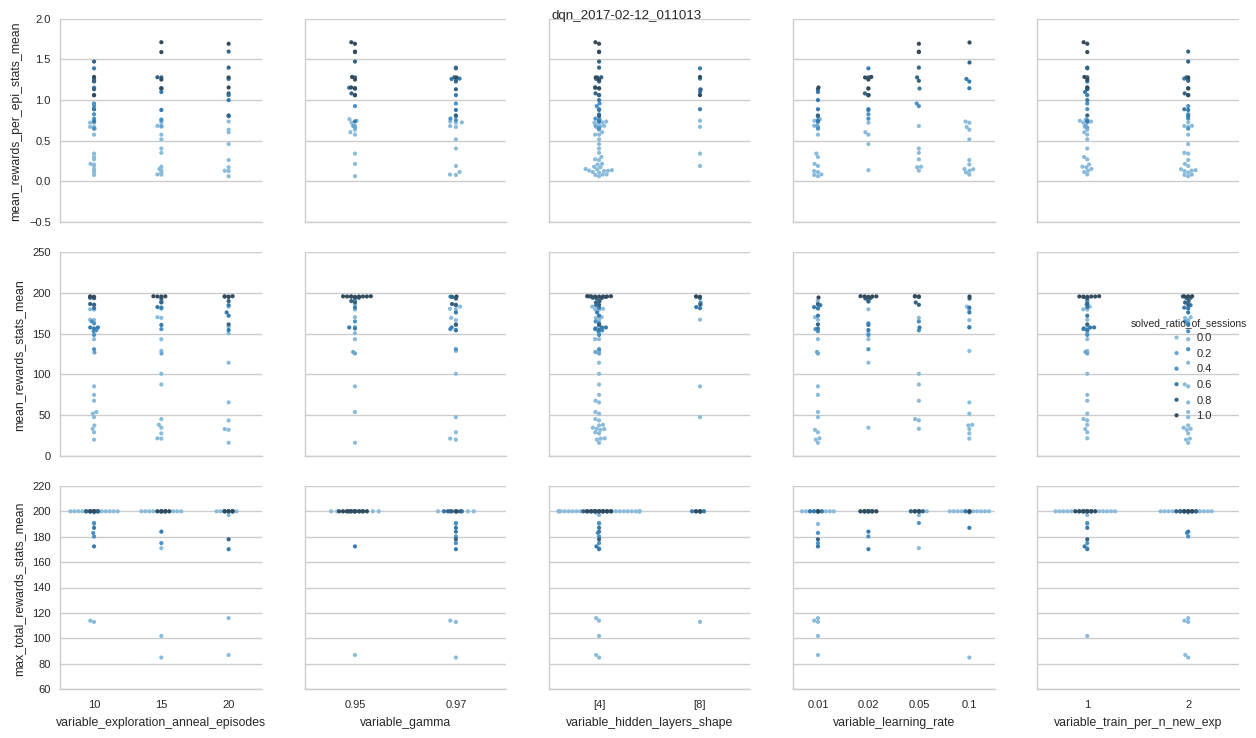
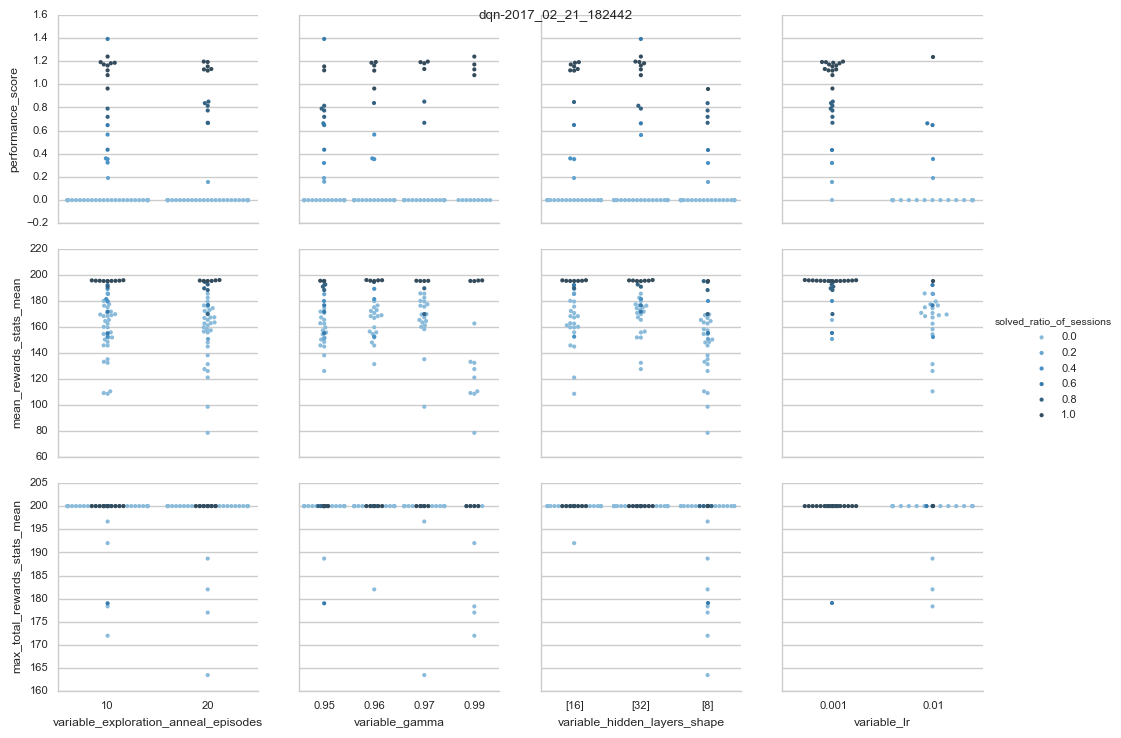
publish: add dqn pic
generated from commit 4880b08e2d25e8413f6b73bc6c73192d3306ab7d

diff --git a/index.html b/index.html
@@ -290,13 +290,109 @@
 <p><em>The dqn experiment analytics generated by the lab (zoom/download to see). This is a pairplot, where we isolate each variable, flatten the others, plot each trial as a point. The darker the color the higher ratio of the repeated sessions the trial solves.</em>
 <img alt="The dqn experiment analytics" src="./images/dqn.png" /></p>
 
-<p>On completion, from the analytics (zoom on the graph), we conclude that the experiment is a success, and the best agent that solves the problem has parameters:</p>
+<p><em>Analysis data table, top 5 trials</em>:</p>
+
+<table><thead>
+<tr>
+<th style="text-align: left">performance_score</th>
+<th style="text-align: left">mean_rewards_per_epi_stats_mean</th>
+<th style="text-align: left">mean_rewards_stats_mean</th>
+<th style="text-align: left">epi_stats_mean</th>
+<th style="text-align: left">solved_ratio_of_sessions</th>
+<th style="text-align: left">num_of_sessions</th>
+<th style="text-align: left">max_total_rewards_stats_mean</th>
+<th style="text-align: left">t_stats_mean</th>
+<th style="text-align: left">trial_id</th>
+<th style="text-align: left">variable_exploration_anneal_episodes</th>
+<th style="text-align: left">variable_gamma</th>
+<th style="text-align: left">variable_hidden_layers_shape</th>
+<th style="text-align: left">variable_lr</th>
+</tr>
+</thead><tbody>
+<tr>
+<td style="text-align: left">1.39203</td>
+<td style="text-align: left">2.32005</td>
+<td style="text-align: left">171.7815</td>
+<td style="text-align: left">120.0</td>
+<td style="text-align: left">0.6</td>
+<td style="text-align: left">5</td>
+<td style="text-align: left">200.0</td>
+<td style="text-align: left">189.8</td>
+<td style="text-align: left">dqn-2017_02_21_182442_t46</td>
+<td style="text-align: left">10</td>
+<td style="text-align: left">0.99</td>
+<td style="text-align: left">[32]</td>
+<td style="text-align: left">0.02</td>
+</tr>
+<tr>
+<td style="text-align: left">1.239977</td>
+<td style="text-align: left">1.239977</td>
+<td style="text-align: left">195.272</td>
+<td style="text-align: left">167.2</td>
+<td style="text-align: left">1.0</td>
+<td style="text-align: left">5</td>
+<td style="text-align: left">200.0</td>
+<td style="text-align: left">199.0</td>
+<td style="text-align: left">dqn-2017_02_21_182442_t45</td>
+<td style="text-align: left">10</td>
+<td style="text-align: left">0.99</td>
+<td style="text-align: left">[32]</td>
+<td style="text-align: left">0.01</td>
+</tr>
+<tr>
+<td style="text-align: left">1.196581</td>
+<td style="text-align: left">1.196581</td>
+<td style="text-align: left">195.372</td>
+<td style="text-align: left">168.0</td>
+<td style="text-align: left">1.0</td>
+<td style="text-align: left">5</td>
+<td style="text-align: left">200.0</td>
+<td style="text-align: left">199.0</td>
+<td style="text-align: left">dqn-2017_02_21_182442_t80</td>
+<td style="text-align: left">20</td>
+<td style="text-align: left">0.97</td>
+<td style="text-align: left">[32]</td>
+<td style="text-align: left">0.001</td>
+</tr>
+<tr>
+<td style="text-align: left">1.192967</td>
+<td style="text-align: left">1.192967</td>
+<td style="text-align: left">196.102</td>
+<td style="text-align: left">165.4</td>
+<td style="text-align: left">1.0</td>
+<td style="text-align: left">5</td>
+<td style="text-align: left">200.0</td>
+<td style="text-align: left">199.0</td>
+<td style="text-align: left">dqn-2017_02_21_182442_t68</td>
+<td style="text-align: left">20</td>
+<td style="text-align: left">0.96</td>
+<td style="text-align: left">[32]</td>
+<td style="text-align: left">0.001</td>
+</tr>
+<tr>
+<td style="text-align: left">1.191591</td>
+<td style="text-align: left">1.191591</td>
+<td style="text-align: left">195.49</td>
+<td style="text-align: left">166.2</td>
+<td style="text-align: left">1.0</td>
+<td style="text-align: left">5</td>
+<td style="text-align: left">200.0</td>
+<td style="text-align: left">195.0</td>
+<td style="text-align: left">dqn-2017_02_21_182442_t28</td>
+<td style="text-align: left">10</td>
+<td style="text-align: left">0.97</td>
+<td style="text-align: left">[16]</td>
+<td style="text-align: left">0.001</td>
+</tr>
+</tbody></table>
+
+<p>On completion, from the analytics (zoom on the graph), we conclude that the experiment is a success, and the best agent that solves the problem has the parameters:</p>
 
 <ul>
-<li><em>lr</em>: (pending below)</li>
-<li><em>gamma</em>: </li>
-<li><em>hidden_layers_shape</em>: </li>
-<li><em>exploration_anneal_episodes</em>: </li>
+<li><em>lr</em>: 0.1</li>
+<li><em>gamma</em>: 0.99</li>
+<li><em>hidden_layers_shape</em>: [32]</li>
+<li><em>exploration_anneal_episodes</em>: 10</li>
 </ul>
 
 <h3 id="run-your-own-lab">Run Your Own Lab</h3>
@@ -361,12 +457,99 @@ Setup the config key <code>data_sync_destination</code> in <code>config/{default
 Setup the config keys <code>NOTI_SLACK_DEST</code>, <code>NOTI_SLACK_TOK</code> in <code>config/{default.json, production.json}</code>.
 </aside>
 
-<p>Notifications from the lab running on our remote server beast:
+<p><em>Notifications from the lab running on our remote server beast:</em>
 <img alt="Notifications from the lab running on our remote server beast" src="./images/noti.png" /></p>
 
           <h1 id="usage"><a name="usage"></a>Usage</h1>
 
-<p>We use <a href="http://gruntjs.com/">Grunt</a> to run the lab - set up experiments, pause/resume lab, run analyses, sync data, notify on progress. The related dependencies are installed with <code class="prettyprint">bin/setup</code> already.</p>
+<p>We use <a href="http://gruntjs.com/">Grunt</a> to run the lab - set up experiments, pause/resume lab, run analyses, sync data, notify on completion. Internally <code class="prettyprint">grunt</code> runs the <code class="prettyprint">python</code> command which is harder to use, but we will include the details below for reference.</p>
+
+<p>The general gist for running a production lab is:</p>
+
+<ol>
+<li>Specify experiments in <code class="prettyprint">rl/asset/experiment_specs.json</code>, e.g. <code class="prettyprint">&quot;dqn&quot;, &quot;lunar_dqn&quot;</code></li>
+<li>Specify the names of the experiments to run in <code class="prettyprint">config/production.json</code></li>
+<li>Run the lab, e.g. <code class="prettyprint">grunt -prod -resume</code></li>
+</ol>
+
+<h2 id="commands">Commands</h2>
+<pre class="highlight shell"><code><span class="c"># when developing</span>
+grunt
+<span class="c"># locally run lab experiments in production.json</span>
+grunt -prod
+<span class="c"># run lab on remote server</span>
+grunt -prod -remote
+<span class="c"># resume lab (previously incomplete experiments)</span>
+grunt -prod -remote -resume
+<span class="c"># plot analysis graphs only</span>
+grunt plot -prod
+</code></pre>
+<p><strong>development</strong> mode:</p>
+
+<ul>
+<li>All grunt commands defaults to this mode</li>
+<li>specify your dev experiment in <code class="prettyprint">config/default.json</code></li>
+<li>use only when developing your new algo</li>
+<li>the file-sync is in mock mode (emulated log without real file copying)</li>
+<li>no auto-notification</li>
+</ul>
+
+<p><strong>production</strong> mode:</p>
+
+<ul>
+<li>append the flag <code class="prettyprint">-prod</code> to your <code class="prettyprint">grunt</code> command</li>
+<li>specify your full experiments in <code class="prettyprint">config/production.json</code></li>
+<li>use when running experiments for real</li>
+<li>the file-sync is real</li>
+<li>has auto-notification to Slack channel</li>
+</ul>
+
+<aside class="notice">
+To monitor your system (CPU, RAM, GPU), run <code>glances</code> (which is installed in <code>bin/setup</code>)
+</aside>
+
+<p><img alt="Glances to monitor your system" src="./images/glances.png" /></p>
+
+<h3 id="run-remotely">Run Remotely</h3>
+
+<p>If you&rsquo;re using a remote server, run the commands inside a screen. That is, log in via ssh, start a screen, run, then detach screen.</p>
+<pre class="highlight shell"><code>screen -S lab
+<span class="c"># enter the screen with the name "lab"</span>
+grunt -prod -remote -resume
+<span class="c"># use Cmd+A+D to detach from screen, then Cmd+D to disconnect ssh</span>
+<span class="c"># to resume screen next time</span>
+screen -r lab
+<span class="c"># use Cmd+D to terminate screen when lab ends</span>
+</code></pre>
+<h3 id="resume-lab">Resume Lab</h3>
+
+<p>Experiments take a long time to complete, and if your process gets terminated, resuming the lab is trivial with a <code class="prettyprint">-resume</code> flag: <code class="prettyprint">grunt -prod -remote -resume</code></p>
+
+<p>This will read the <code class="prettyprint">config/history.json</code> created in the last run that maps <code class="prettyprint">experiment_name</code>s to <code class="prettyprint">experiment_id</code>s, and resume any incomplete experiments based on that <code class="prettyprint">experiment_id</code>. You can manually tweak the file to set the resume target of course.</p>
+<pre class="highlight json"><code><span class="p">{</span><span class="w">
+  </span><span class="nt">"dqn"</span><span class="p">:</span><span class="w"> </span><span class="s2">"dqn-2017_02_21_182442"</span><span class="w">
+</span><span class="p">}</span><span class="w">
+</span></code></pre>
+<h3 id="internal-python-command">Internal Python command</h3>
+
+<p>The Python command is invoked inside <code class="prettyprint">Gruntfile.js</code> under the <code class="prettyprint">composeCommand</code> function. Change it if you need to.</p>
+
+<p>Here&rsquo;s the pattern:</p>
+<pre class="highlight shell"><code>python3 main.py -bgp -e lunar_dqn -t 5 | tee -a ./data/terminal.log
+</code></pre>
+<p>The python command flags are:</p>
+
+<ul>
+<li><code class="prettyprint">-a</code>: Run <code class="prettyprint">analyze_experiment()</code> only to plot <code class="prettyprint">experiment_data</code>. Default: <code class="prettyprint">False</code></li>
+<li><code class="prettyprint">-b</code>: blind mode, do not render graphics. Default: <code class="prettyprint">False</code></li>
+<li><code class="prettyprint">-d</code>: log debug info. Default: <code class="prettyprint">False</code></li>
+<li><code class="prettyprint">-e &lt;experiment&gt;</code>: specify which of <code class="prettyprint">rl/asset/experiment_spec.json</code> to run. Default: <code class="prettyprint">-e dev_dqn</code>. Can be a <code class="prettyprint">experiment_name, experiment_id</code>.</li>
+<li><code class="prettyprint">-g</code>: plot graphs live. Default: <code class="prettyprint">False</code></li>
+<li><code class="prettyprint">-m &lt;max_evals&gt;</code>: the max number of trials for hyperopt. Default: <code class="prettyprint">100</code></li>
+<li><code class="prettyprint">-p</code>: run param selection. Default: <code class="prettyprint">False</code></li>
+<li><code class="prettyprint">-t &lt;times&gt;</code>: the number of sessions to run per trial. Default: <code class="prettyprint">1</code></li>
+<li><code class="prettyprint">-x &lt;max_episodes&gt;</code>: Manually specifiy max number of episodes per trial. Default: <code class="prettyprint">-1</code> and program defaults to value in <code class="prettyprint">rl/asset/problems.json</code></li>
+</ul>
 
           <h1 id="features"><a name="features"></a>Features</h1>
 
@@ -375,6 +558,15 @@ Setup the config keys <code>NOTI_SLACK_DEST</code>, <code>NOTI_SLACK_TOK</code> 
           <h1 id="roadmap"><a name="roadmap"></a>Roadmap</h1>
 
           <h1 id="contributing"><a name="contributing"></a>Contributing</h1>
+
+<h2 id="authors">Authors</h2>
+
+<p><em>Note: we are not affiliated with OpenAI</em></p>
+
+<ul>
+<li>Wah Loon Keng</li>
+<li>Laura Graesser</li>
+</ul>
 
       </div>
       <div class="dark-box">
